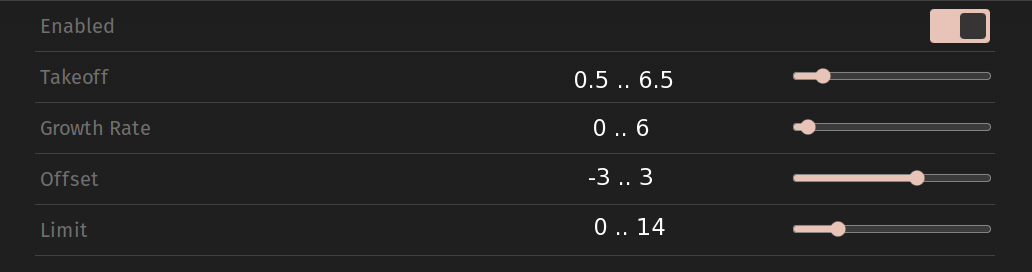
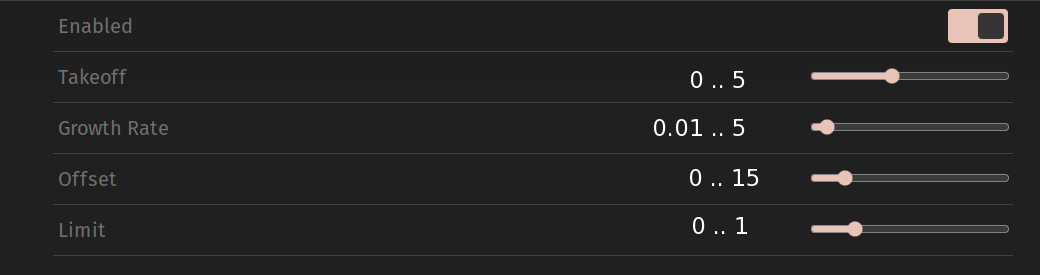
change via limits to be more sensible for new curve

diff --git a/maccel/maccel_via.c b/maccel/maccel_via.c
@@ -24,6 +24,22 @@ enum via_maccel_ids {
     // clang-format on
 };
 
+#define MACCEL_VIA_TKO_MIN 0
+#define MACCEL_VIA_TKO_MAX 5
+#define MACCEL_VIA_GRO_MIN 0.01
+#define MACCEL_VIA_GRO_MAX 5
+#define MACCEL_VIA_OFS_MIN 0
+#define MACCEL_VIA_OFS_MAX 15
+#define MACCEL_VIA_LMT_MIN 0
+#define MACCEL_VIA_LMT_MAX 1
+
+#define MACCEL_VIA_UINT16_MIN 0
+#define MACCEL_VIA_UINT16_MAX 60000 // Not using the full range for historic reasons. Should be changed with breaking change requiring via json update.
+
+#define PROJECT(val, rmin, rmax, tmin, tmax) (((float)(val - rmin) / (float)(rmax - rmin)) * (float)(tmax - tmin)) + tmin
+#define PROJECT_TO_VIA(val, rmin, rmax) PROJECT(val, rmin, rmax, MACCEL_VIA_UINT16_MIN, MACCEL_VIA_UINT16_MAX)
+#define PROJECT_FROM_VIA(val, tmin, tmax) PROJECT(val, MACCEL_VIA_UINT16_MIN, MACCEL_VIA_UINT16_MAX, tmin, tmax)
+
 #define COMBINE_UINT8(one, two) (two | (one << 8))
 
 // Handle the data received by the keyboard from the VIA menus
@@ -36,8 +52,7 @@ void maccel_config_set_value(uint8_t *data) {
         case id_maccel_takeoff: {
             uint16_t takeoff = COMBINE_UINT8(value_data[0], value_data[1]);
 
-            // calc uint16 to float: takeoff moves comma and shifts by 0.5, so that 0.5..6.5 fits into 0..60k
-            g_maccel_config.takeoff = (takeoff / 10000.0f) + 0.5;
+            g_maccel_config.takeoff = PROJECT_FROM_VIA(takeoff, MACCEL_VIA_TKO_MIN, MACCEL_VIA_TKO_MAX);
 #ifdef MACCEL_DEBUG
             printf("MACCEL:via: TKO: %.3f grw: %.3f ofs: %.3f lmt: %.3f\n", g_maccel_config.takeoff, g_maccel_config.growth_rate, g_maccel_config.offset, g_maccel_config.limit);
 #endif
@@ -46,8 +61,7 @@ void maccel_config_set_value(uint8_t *data) {
         case id_maccel_growth_rate: {
             uint16_t growth_rate = COMBINE_UINT8(value_data[0], value_data[1]);
 
-            // calc uint16 to float: growth_rate only moves the comma
-            g_maccel_config.growth_rate = growth_rate / 10000.0f;
+            g_maccel_config.growth_rate = PROJECT_FROM_VIA(growth_rate, MACCEL_VIA_GRO_MIN, MACCEL_VIA_GRO_MAX);
 #ifdef MACCEL_DEBUG
             printf("MACCEL:via: tko: %.3f GRW: %.3f ofs: %.3f lmt: %.3f\n", g_maccel_config.takeoff, g_maccel_config.growth_rate, g_maccel_config.offset, g_maccel_config.limit);
 #endif
@@ -56,8 +70,7 @@ void maccel_config_set_value(uint8_t *data) {
         case id_maccel_offset: {
             uint16_t offset = COMBINE_UINT8(value_data[0], value_data[1]);
 
-            // calc uint16 to float: offset moves comma and shifts by 3, so that -3..3 fits into 0..60k
-            g_maccel_config.offset = (offset / 10000.0f) - 3;
+            g_maccel_config.offset = PROJECT_FROM_VIA(offset, MACCEL_VIA_OFS_MIN, MACCEL_VIA_OFS_MAX);
 #ifdef MACCEL_DEBUG
             printf("MACCEL:via: tko: %.3f grw: %.3f OFS: %.3f lmt: %.3f\n", g_maccel_config.takeoff, g_maccel_config.growth_rate, g_maccel_config.offset, g_maccel_config.limit);
 #endif
@@ -66,8 +79,7 @@ void maccel_config_set_value(uint8_t *data) {
         case id_maccel_limit: {
             uint16_t limit = COMBINE_UINT8(value_data[0], value_data[1]);
 
-            // calc uint16 to float: offset moves comma, divides by 2 and shifts by 1, so that 1..14 fits into 0..60k
-            g_maccel_config.limit = (limit / 5000.0f) + 1;
+            g_maccel_config.limit = PROJECT_FROM_VIA(limit, MACCEL_VIA_LMT_MIN, MACCEL_VIA_LMT_MAX);
 #ifdef MACCEL_DEBUG
             printf("MACCEL:via: tko: %.3f grw: %.3f ofs: %.3f LMT: %.3f\n", g_maccel_config.takeoff, g_maccel_config.growth_rate, g_maccel_config.offset, g_maccel_config.limit);
 #endif
@@ -88,25 +100,26 @@ void maccel_config_get_value(uint8_t *data) {
 
     switch (*value_id) {
         case id_maccel_takeoff: {
-            uint16_t takeoff = (g_maccel_config.takeoff - 0.5) * 5000;
+            // uint16_t takeoff = (g_maccel_config.takeoff - 0.5) / (4.5 / 6) * 10000;
+            uint16_t takeoff = PROJECT_TO_VIA(g_maccel_config.takeoff, MACCEL_VIA_TKO_MIN, MACCEL_VIA_TKO_MAX);
             value_data[0]    = takeoff >> 8;
             value_data[1]    = takeoff & 0xFF;
             break;
         }
         case id_maccel_growth_rate: {
-            uint16_t growth_rate = g_maccel_config.growth_rate * 10000;
+            uint16_t growth_rate = PROJECT_TO_VIA(g_maccel_config.growth_rate, MACCEL_VIA_GRO_MIN, MACCEL_VIA_GRO_MAX);
             value_data[0]        = growth_rate >> 8;
             value_data[1]        = growth_rate & 0xFF;
             break;
         }
         case id_maccel_offset: {
-            uint16_t offset = (g_maccel_config.offset + 3) * 10000;
+            uint16_t offset = PROJECT_TO_VIA(g_maccel_config.offset, MACCEL_VIA_OFS_MIN, MACCEL_VIA_OFS_MAX);
             value_data[0]   = offset >> 8;
             value_data[1]   = offset & 0xFF;
             break;
         }
         case id_maccel_limit: {
-            uint16_t limit = (g_maccel_config.limit - 1) * 5000;
+            uint16_t limit = PROJECT_TO_VIA(g_maccel_config.limit, MACCEL_VIA_LMT_MIN, MACCEL_VIA_LMT_MAX);
             value_data[0]  = limit >> 8;
             value_data[1]  = limit & 0xFF;
             break;
